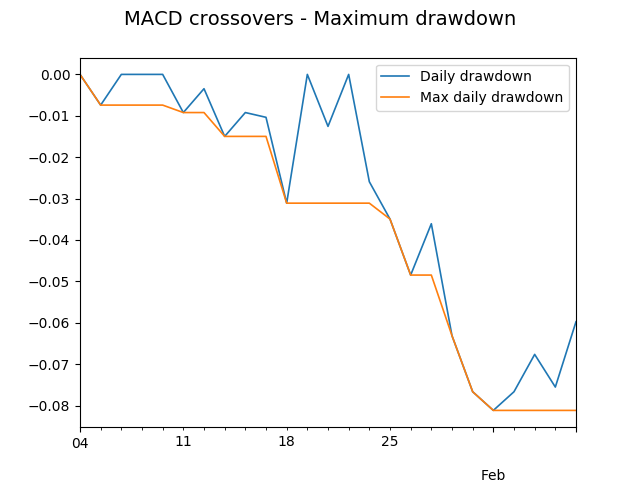
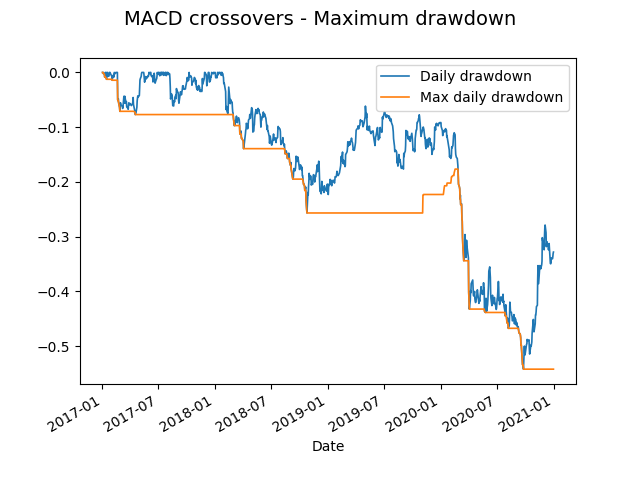
Update example figures

diff --git a/code/technical-analysis_python/main_macd_crossover.py b/code/technical-analysis_python/main_macd_crossover.py
@@ -15,7 +15,7 @@ from evaluate import PortfolioReturn, SharpeRatio, MaxDrawdown, CAGR
 df = pd.read_csv('../../database/hkex_ticks_day/hkex_0005.csv', header=0, index_col='Date', parse_dates=True)
 
 # select time range
-df = df.loc[pd.Timestamp('2021-01-01'):pd.Timestamp('2021-02-05')]
+df = df.loc[pd.Timestamp('2017-01-01'):pd.Timestamp('2021-01-01')]
 
 ticker = "0005.HK"
 
